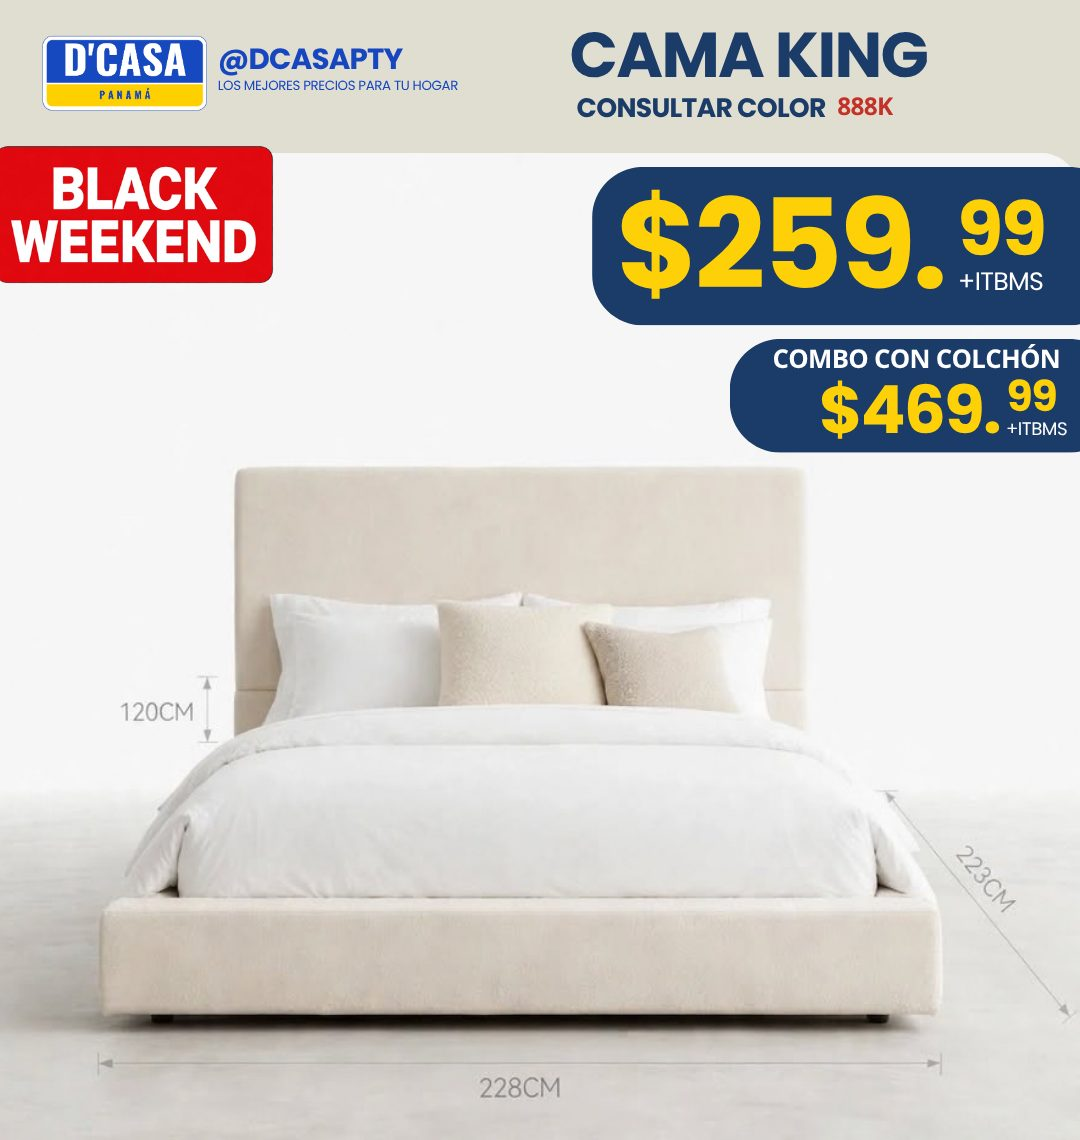
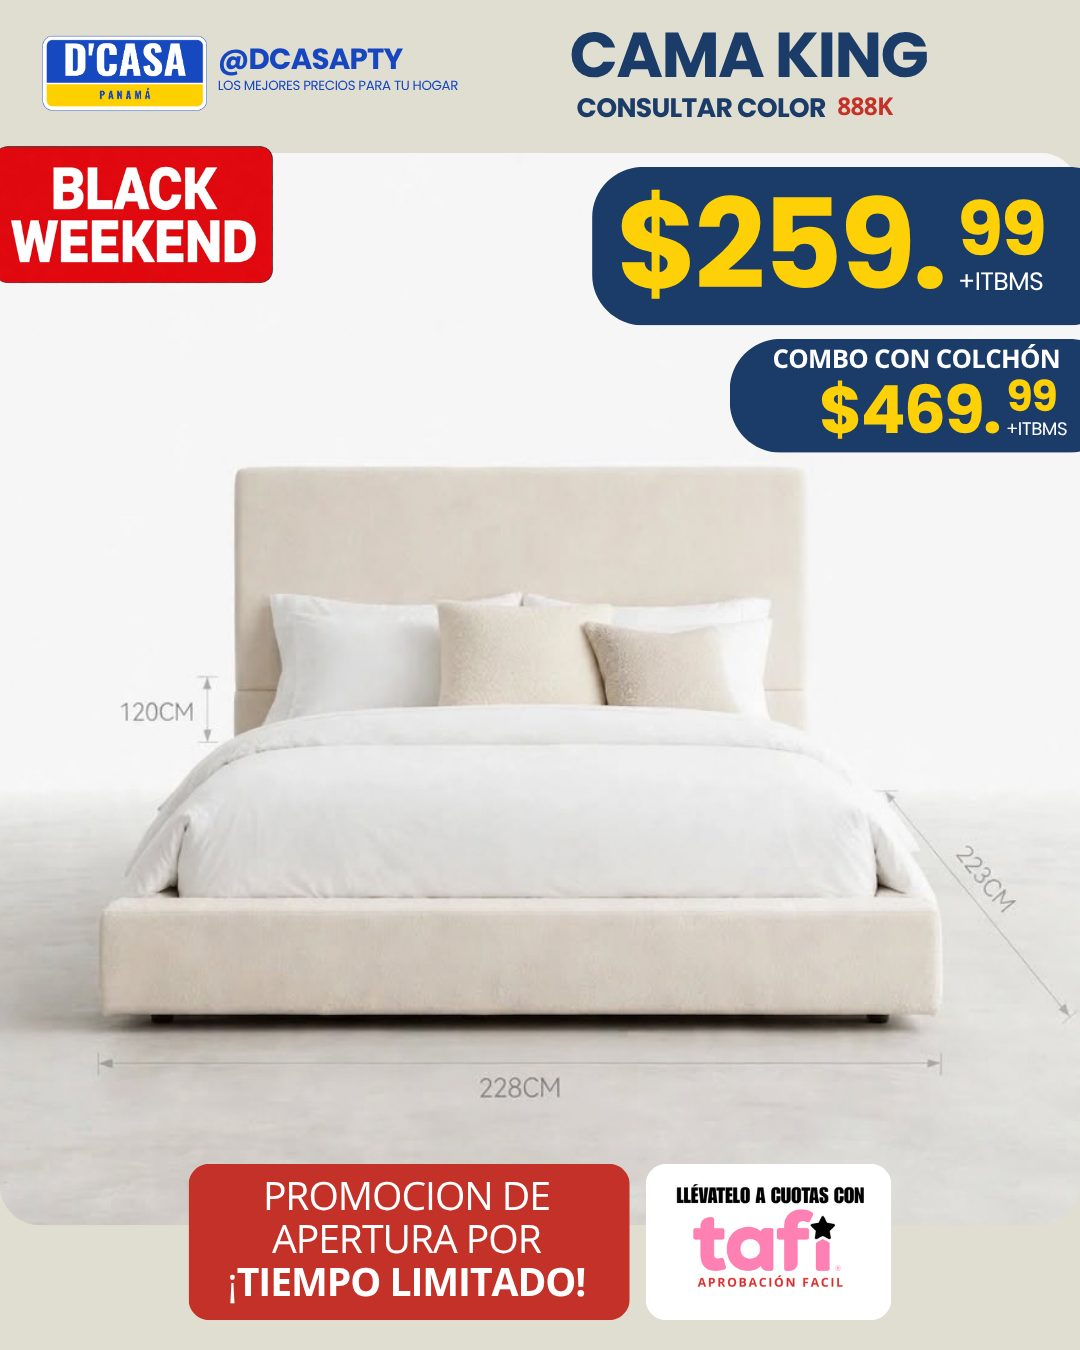
HK-BF-022-N-K-1-W es Queen; imagen para compartir con la gráfica completa
- dcasa_catalogo 19.0.1.5.0: la dueña confirmó que la «Base Queen» de 153.png es Queen
  (el Excel LTSC-07 decía King). corregir_nombres() cambia nombre y tamaño de lo ya
  cargado, respeta un nombre editado a mano y pasa el código a la variante nueva.
  El importador lo conserva al regenerar (PEDIDOS[...]['nombres']).
- Black Weekend: og.jpg es 115.png completa (1080 × 1350); la dueña aceptó que ahí salgan
  tafi y «tiempo limitado». La página sigue sin repetirlos.
- Revisión de gráficas: 146 (Y0400400-Q) y 150 (Y0400201-F) confirmadas por la dueña.

Claude-Session: https://claude.ai/code/session_01JZnPSoK7YzuPNCJK2osXM4

diff --git a/edge/test/feed-ejemplo.ts b/edge/test/feed-ejemplo.ts
@@ -132,7 +132,7 @@ export function feedBlackWeekend(activo = true): Feed {
     descripcion: "Black Weekend en D'CASA Panamá del 5 al 11 de octubre de 2026: 2 camas y bases seleccionadas.",
     og_imagen: "https://dcasapty.com/website_dcasa/static/src/img/black_weekend/og.jpg",
     og_imagen_ancho: 1080,
-    og_imagen_alto: 1140,
+    og_imagen_alto: 1350,
     json_ld: {
       "@context": "https://schema.org",
       "@type": "ItemList",

diff --git a/scripts/importar_catalogo.py b/scripts/importar_catalogo.py
@@ -87,20 +87,21 @@ REVISION_GRAFICAS_BLACK_WEEKEND = [
     '',
     '39 gráficas de la dueña (1080 × 1350, texto incrustado). Los precios de cama sola y combo coinciden '
     'con el pedido LTSC-07 cargado. La web no las usa como foto de producto (texto incrustado: malo para '
-    'la carga, Google y lectores de pantalla); `115.png`, recortada sin la franja de abajo, es la imagen '
+    'la carga, Google y lectores de pantalla); `115.png` completa (la dueña aceptó que salgan tafi y «tiempo limitado» en ella, 2026-10-02) es la imagen '
     'para compartir de /black-weekend (`addons/website_dcasa/static/src/img/black_weekend/og.jpg`). Las '
     'originales se quedan en «up media» (no entran a la imagen de Docker: `.dockerignore`).',
     '',
     '### Errores en las gráficas (los corrige la dueña en su arte; el catálogo queda como está)',
     '',
     '- `146.png` y `147.png` dicen «Y0400300-Q», pero la cama es MARRÓN: es `Y0400400-Q` (tela marrón). '
-    '`Y0400300-Q` es la de tela negra.',
+    '`Y0400300-Q` es la de tela negra. **Confirmado por la dueña el 2026-10-02.**',
     '- `147.png` es la misma gráfica que `146.png` (duplicada).',
     '- `150.png` dice «Y0400101-F», pero la cama es gris CLARO: es `Y0400201-F` (lino gris claro). '
-    '`Y0400101-F` es la de gris oscuro.',
+    '`Y0400101-F` es la de gris oscuro. **Confirmado por la dueña el 2026-10-02.**',
     '- `152.png` dice «BASE QUEEN HK-BF-022-N-K-1-W $109.99», pero $109.99 y 193 cm son de '
     '`HK-BF-022-N-F-1-W` (Full).',
-    '- `153.png` dice «BASE QUEEN», pero `HK-BF-022-N-K-1-W` es una cama King ($159.99).',
+    '- `153.png` dice «BASE QUEEN» y `HK-BF-022-N-K-1-W` ($159.99): el Excel la llamaba King, pero la '
+    'dueña confirmó el 2026-10-02 que es Queen. Se publica como «Cama tapizada Queen – blanco».',
     '- Todas traen «Promoción de apertura por ¡tiempo limitado!» y el sello de cuotas: la web no los '
     'repite (sin urgencia inventada ni financiamiento: descartado por la dueña el 2026-10-02).',
     '',
@@ -119,8 +120,8 @@ REVISION_GRAFICAS_BLACK_WEEKEND = [
     '- 888K (115) · 908K negro (118) · 803K (122) · 809Q (123) · 822F (126) · 825K (129) · 6220Q (133) · '
     '6877F (132) · Y0200100 (134) · Y0300300-LTSC07 (141; no el Y0300300 de $159.99) · HK-BF-022-N-K-1-W '
     '(153) · N-F10018-Q-BK (151).',
-    '- Ventana: lunes 5 a domingo 11 de octubre de 2026, hora de Panamá (decisión de la dueña). Staging '
-    'la muestra ya (vista previa).',
+    '- Ventana: viernes 2 (adelantada desde el lunes 5) a domingo 11 de octubre de 2026, hora de Panamá '
+    '(decisión de la dueña). Staging la muestra ya (vista previa).',
 ]
 
 # Pedidos nuevos del proveedor: mismo formato («Catálogo LTSC-07»: encabezado en la fila 4).
@@ -158,6 +159,13 @@ PEDIDOS = [{
             '811K', None,
             'el nombre dice Queen, pero 213 × 199 × 125 cm son las medidas de 811K (King – beige) y '
             'ninguna Queen del Excel las tiene; es casi la misma imagen que la de 811Q'),
+    },
+    # Nombres del Excel que la dueña corrigió (código: (nombre, motivo)).
+    'nombres': {
+        'HK-BF-022-N-K-1-W': (
+            'Cama tapizada Queen – blanco',
+            'el Excel dice «King – blanco»; la dueña confirmó el 2026-10-02 que es la Base Queen de su '
+            'gráfica 153.png (las medidas del Excel, 205 × 193 × 110 cm, quedan como están)'),
     },
     # Medidas del Excel que no se publican (se ven copiadas de otra fila).
     'medidas_dudosas': {
@@ -421,6 +429,7 @@ class Pedido:
         nombre = primera['descripcion']
         if con_colores:
             nombre = re.split(r'\s+[–-]\s+', nombre)[0].strip()
+        nombre = self.pedido.get('nombres', {}).get(codigo_excel, (nombre,))[0]
         combo = ' · '.join(f'Combo con colchón {marca} ${precio_terminado_en_99(valor):.2f}'
                            for marca, valor in primera['combos'].items()) or None
         base = codigo_archivo(codigo)

diff --git a/addons/dcasa_catalogo/tests/test_black_weekend.py b/addons/dcasa_catalogo/tests/test_black_weekend.py
@@ -1,7 +1,13 @@
 import json
 import re
 
-from odoo.addons.dcasa_catalogo.catalogo import BLACK_WEEKEND, leer_catalogo, marcar_black_weekend
+from odoo.addons.dcasa_catalogo.catalogo import (
+    BLACK_WEEKEND,
+    atributo_tamano,
+    corregir_nombres,
+    leer_catalogo,
+    marcar_black_weekend,
+)
 from odoo.tests import HttpCase, TransactionCase, tagged
 from odoo.tools.misc import file_open
 
@@ -36,6 +42,39 @@ class TestBlackWeekendCatalogo(TransactionCase):
         self.assertTrue(self._producto('Y0300300-LTSC07').product_tmpl_id.dcasa_black_weekend)
         self.assertFalse(self._producto('Y0300300').product_tmpl_id.dcasa_black_weekend,
                          'El Y0300300 de $159.99 no es el de la promoción')
+
+    def test_hk_bf_022_k_es_queen(self):
+        """La dueña (2026-10-02): la «Base Queen» de 153.png es Queen aunque el Excel dijera King."""
+        variante = self._producto('HK-BF-022-N-K-1-W')
+        producto = variante.product_tmpl_id
+        self.assertEqual(producto.name, 'Cama tapizada Queen – blanco')
+        self.assertEqual(variante.product_template_attribute_value_ids.name, 'Queen')
+        self.assertTrue(variante.active)
+
+    def test_corregir_nombres_lleva_lo_cargado_como_king_a_queen(self):
+        _atributo, valores = atributo_tamano(self.env)
+        producto = self._producto('HK-BF-022-N-K-1-W').product_tmpl_id
+        # Como lo dejó la carga anterior (19.0.1.3.0): King.
+        producto.name = 'Cama tapizada King – blanco'
+        linea = producto.attribute_line_ids.filtered(lambda lin: lin.attribute_id.name == 'Tamaño')
+        linea.value_ids = [(6, 0, valores['King'].ids)]
+        producto.product_variant_ids.default_code = 'HK-BF-022-N-K-1-W'
+        precio = producto.list_price
+
+        self.assertEqual(corregir_nombres(self.env), 1)
+        self.assertEqual(corregir_nombres(self.env), 0, 'Idempotente')
+        self.assertEqual(producto.name, 'Cama tapizada Queen – blanco')
+        activa = producto.product_variant_ids
+        self.assertEqual(len(activa), 1)
+        self.assertEqual(activa.product_template_attribute_value_ids.name, 'Queen')
+        self.assertEqual(activa.default_code, 'HK-BF-022-N-K-1-W')
+        self.assertEqual(producto.list_price, precio)
+
+    def test_corregir_nombres_respeta_lo_que_edito_la_duena(self):
+        producto = self._producto('HK-BF-022-N-K-1-W').product_tmpl_id
+        producto.name = 'Base Queen blanca'
+        corregir_nombres(self.env)
+        self.assertEqual(producto.name, 'Base Queen blanca')
 
     def test_idempotente_y_sin_tocar_precios(self):
         marcar_black_weekend(self.env)

diff --git a/addons/dcasa_catalogo/catalogo.py b/addons/dcasa_catalogo/catalogo.py
@@ -324,6 +324,43 @@ def marcar_black_weekend(env):
 PARAM_STOCK_PRUEBA = 'dcasa_catalogo.stock_prueba'
 
 
+# Nombres del Excel que la dueña corrigió después de cargarlos: (código, nombre anterior, tamaño
+# anterior, nombre nuevo, tamaño nuevo). El código y las medidas no cambian.
+CORRECCIONES_DE_NOMBRE = [
+    # 2026-10-02: es la Base Queen de su gráfica 153.png; el Excel LTSC-07 decía «King – blanco».
+    ('HK-BF-022-N-K-1-W', 'Cama tapizada King – blanco', 'King', 'Cama tapizada Queen – blanco', 'Queen'),
+]
+
+
+def corregir_nombres(env):
+    """Aplica ``CORRECCIONES_DE_NOMBRE`` a los productos ya cargados (idempotente).
+
+    El nombre solo se cambia si sigue como lo dejó la carga (si la dueña lo editó, se respeta). El
+    tamaño de la línea de atributo se cambia si sigue con el anterior: Odoo crea la variante nueva
+    y archiva la vieja, así que el código pasa a la nueva (las ventas viejas siguen apuntando a la
+    archivada).
+    """
+    _atributo, valores = atributo_tamano(env)
+    corregidos = 0
+    for codigo, nombre_viejo, tamano_viejo, nombre_nuevo, tamano_nuevo in CORRECCIONES_DE_NOMBRE:
+        producto = env.ref(f'{MODULO}.{xmlid_de(codigo)}', raise_if_not_found=False)
+        if not producto:
+            continue
+        if producto.name == nombre_viejo:
+            producto.name = nombre_nuevo
+            corregidos += 1
+        linea = producto.attribute_line_ids.filtered(
+            lambda lin, v=valores[tamano_viejo]: lin.attribute_id.name == 'Tamaño' and lin.value_ids == v)
+        if linea:
+            vieja = producto.product_variant_ids[:1]
+            linea.value_ids = [(6, 0, valores[tamano_nuevo].ids)]
+            nueva = producto.product_variant_ids[:1]
+            if vieja != nueva and vieja.default_code == codigo:
+                vieja.default_code = False
+                nueva.default_code = codigo
+    return corregidos
+
+
 def stock_de_prueba(env):
     """Unidades de prueba por producto (``dcasa_catalogo.stock_prueba``); vacío, 0 o inválido = apagado.
 

diff --git a/addons/website_dcasa/models/black_weekend.py b/addons/website_dcasa/models/black_weekend.py
@@ -36,9 +36,9 @@ PARAMS = (PARAM_ACTIVO, PARAM_INICIO, PARAM_FIN)
 VENTANA_POR_DEFECTO = {PARAM_ACTIVO: '0', PARAM_INICIO: '2026-10-02', PARAM_FIN: '2026-10-11'}
 ZONA = pytz.timezone('America/Panama')
 RUTA = '/black-weekend'
-# Imagen para compartir (redes): la gráfica 115.png de la dueña, recortada sin la franja de abajo.
+# Imagen para compartir (redes): la gráfica 115.png de la dueña completa (decisión suya del 2026-10-02).
 OG_IMAGEN = '/website_dcasa/static/src/img/black_weekend/og.jpg'
-OG_ANCHO, OG_ALTO = 1080, 1140
+OG_ANCHO, OG_ALTO = 1080, 1350
 _COMBO = re.compile(r'^\s*(Combo con colchón)\s*(.*?)\s*\$\s*([\d,]+(?:\.\d+)?)\s*$', re.I)
 _MESES = ('enero', 'febrero', 'marzo', 'abril', 'mayo', 'junio', 'julio', 'agosto', 'septiembre',
           'octubre', 'noviembre', 'diciembre')

diff --git a/addons/dcasa_catalogo/migrations/19.0.1.5.0/post-migrate.py b/addons/dcasa_catalogo/migrations/19.0.1.5.0/post-migrate.py
@@ -1,0 +1,10 @@
+"""HK-BF-022-N-K-1-W pasa a «Cama tapizada Queen – blanco» (la dueña, 2026-10-02).
+
+``corregir_nombres`` es idempotente y respeta un nombre que la dueña ya haya cambiado en Odoo.
+"""
+from odoo import SUPERUSER_ID, api
+from odoo.addons.dcasa_catalogo.catalogo import corregir_nombres
+
+
+def migrate(cr, version):
+    corregir_nombres(api.Environment(cr, SUPERUSER_ID, {}))

diff --git a/addons/dcasa_catalogo/__manifest__.py b/addons/dcasa_catalogo/__manifest__.py
@@ -25,7 +25,7 @@ las ventas y la tienda web.
 * Idempotente: volver a correr la carga solo crea lo que falta; no pisa lo que la
   dueña cambió en Odoo (precios, fotos, textos).
 """,
-    'version': '19.0.1.4.0',
+    'version': '19.0.1.5.0',
     'category': 'Sales',
     'author': "D'CASA Panamá",
     'website': 'https://dcasapty.com',

diff --git a/docs/CATALOGO_REVISAR.md b/docs/CATALOGO_REVISAR.md
@@ -166,9 +166,12 @@ Primera foto = principal; las demás, a la galería (fotos «con colchón» al f
 - `811Q` y `811K` quedan con casi la misma imagen (los nombres de archivo dicen 213 × 158 y 213 × 199): confirmar que 811K es esa cama.
 - La foto incrustada en el Excel de `822F` muestra una cama de color tostado, no blanca: la foto de la carpeta («Full – blanco») sí es blanca. Confirmar el color con la mercancía.
 
+Fotos de «up media» que no son de ningún producto (ni de la carga inicial ni de LTSC-07): `115.png`, `116.png`, `117.png`, `118.png`, `119.png`, `120.png`, `121.png`, `122.png`, `123.png`, `124.png`, `125.png`, `126.png`, `127.png`, `128.png`, `129.png`, `130.png`, `131.png`, `132.png`, `133.png`, `134.png`, `135.png`, `136.png`, `137.png`, `138.png`, `139.png`, `140.png`, `141.png`, `142.png`, `143.png`, `144.png`, `145.png`, `146.png`, `147.png`, `148.png`, `149.png`, `150.png`, `151.png`, `152.png`, `153.png`.
+
+
 ## Gráficas de Black Weekend (`up media/115.png` … `153.png`, revisión del 2026-10-02)
 
-39 gráficas de la dueña (1080 × 1350, texto incrustado). Los precios de cama sola y combo coinciden con el pedido LTSC-07 cargado. La web no las usa como foto de producto (texto incrustado: malo para la carga, Google y lectores de pantalla); `115.png`, recortada sin la franja de abajo, es la imagen para compartir de /black-weekend (`addons/website_dcasa/static/src/img/black_weekend/og.jpg`). Las originales se quedan en «up media» (no entran a la imagen de Docker: `.dockerignore`).
+39 gráficas de la dueña (1080 × 1350, texto incrustado). Los precios de cama sola y combo coinciden con el pedido LTSC-07 cargado. La web no las usa como foto de producto (texto incrustado: malo para la carga, Google y lectores de pantalla); `115.png` completa (la dueña aceptó que salgan tafi y «tiempo limitado» en ella, 2026-10-02) es la imagen para compartir de /black-weekend (`addons/website_dcasa/static/src/img/black_weekend/og.jpg`). Las originales se quedan en «up media» (no entran a la imagen de Docker: `.dockerignore`).
 
 ### Errores en las gráficas (los corrige la dueña en su arte; el catálogo queda como está)
 
@@ -176,10 +179,7 @@ Primera foto = principal; las demás, a la galería (fotos «con colchón» al f
 - `147.png` es la misma gráfica que `146.png` (duplicada).
 - `150.png` dice «Y0400101-F», pero la cama es gris CLARO: es `Y0400201-F` (lino gris claro). `Y0400101-F` es la de gris oscuro. **Confirmado por la dueña el 2026-10-02.**
 - `152.png` dice «BASE QUEEN HK-BF-022-N-K-1-W $109.99», pero $109.99 y 193 cm son de `HK-BF-022-N-F-1-W` (Full).
-- `153.png` dice «BASE QUEEN», pero `HK-BF-022-N-K-1-W` es una cama King ($159.99).
-  - La dueña dice (2026-10-02) que la «Base Queen» de la gráfica es correcta. Pendiente: el Excel LTSC-07
-    la llama «Cama tapizada King – blanco» con 205 × 193 cm (193 de ancho es medida King). En el
-    catálogo sigue como King hasta que la dueña diga cuál de los dos se corrige.
+- `153.png` dice «BASE QUEEN» y `HK-BF-022-N-K-1-W` ($159.99): el Excel la llamaba King, pero la dueña confirmó el 2026-10-02 que es Queen. Se publica como «Cama tapizada Queen – blanco».
 - Todas traen «Promoción de apertura por ¡tiempo limitado!» y el sello de cuotas: la web no los repite (sin urgencia inventada ni financiamiento: descartado por la dueña el 2026-10-02).
 
 ### Dudas que las gráficas resuelven (el catálogo ya las tenía bien)
@@ -192,4 +192,4 @@ Primera foto = principal; las demás, a la galería (fotos «con colchón» al f
 ### Selección para la web (`addons/dcasa_catalogo/catalogo.py`: `BLACK_WEEKEND`)
 
 - 888K (115) · 908K negro (118) · 803K (122) · 809Q (123) · 822F (126) · 825K (129) · 6220Q (133) · 6877F (132) · Y0200100 (134) · Y0300300-LTSC07 (141; no el Y0300300 de $159.99) · HK-BF-022-N-K-1-W (153) · N-F10018-Q-BK (151).
-- Ventana: lunes 5 a domingo 11 de octubre de 2026, hora de Panamá (decisión de la dueña). Staging la muestra ya (vista previa).
+- Ventana: viernes 2 (adelantada desde el lunes 5) a domingo 11 de octubre de 2026, hora de Panamá (decisión de la dueña). Staging la muestra ya (vista previa).

diff --git a/docs/CATALOGO.md b/docs/CATALOGO.md
@@ -145,5 +145,6 @@ Banda negra con titular amarillo en la portada (antes de los carriles), página 
     termina sola.
 - **Lo que no lleva:** cuenta regresiva, «tiempo limitado», «remate», cuotas ni financiamiento
   (tafi: descartado por la dueña el 2026-10-02). Las gráficas de la dueña (`up media/115.png` …
-  `153.png`) no son fotos de producto: solo `115.png`, recortada sin la franja de cuotas y
-  urgencia, es la imagen para compartir. Revisión de las gráficas: `docs/CATALOGO_REVISAR.md`.
+  `153.png`) no son fotos de producto: solo `115.png` completa es la imagen para
+  compartir (la dueña aceptó, el 2026-10-02, que ahí salgan tafi y «tiempo limitado»; la página no
+  los repite). Revisión de las gráficas: `docs/CATALOGO_REVISAR.md`.
